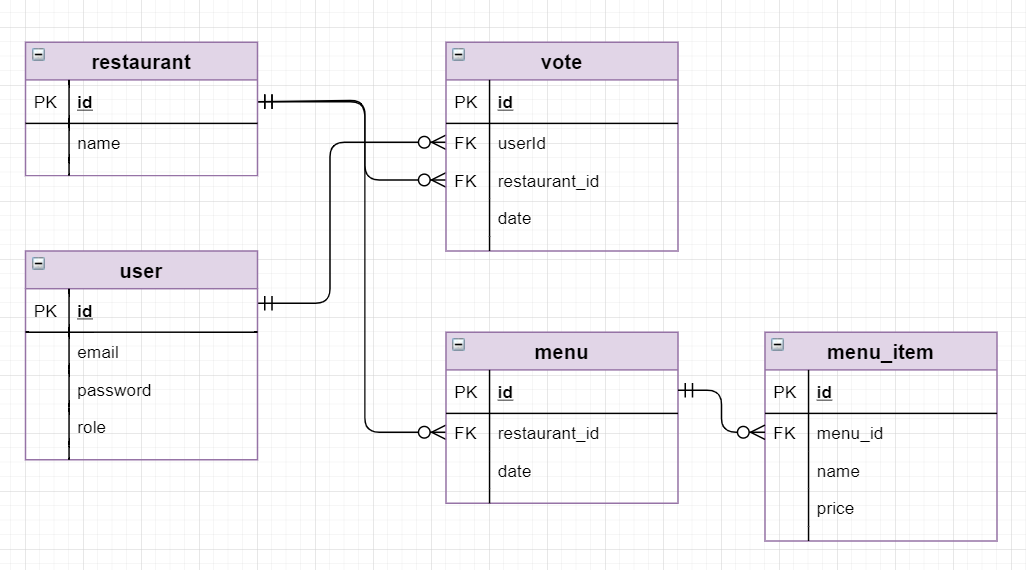
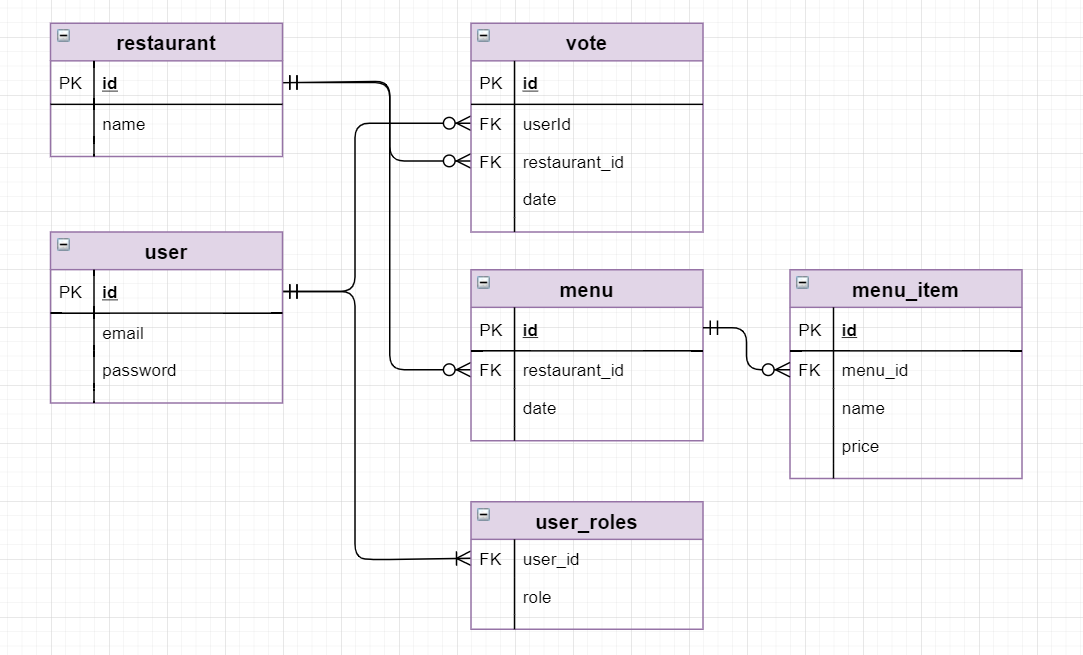
Fixed user registration, removed single role leftovers

diff --git a/src/main/java/ru/voidelectrics/restaurantvoter/service/UserService.java b/src/main/java/ru/voidelectrics/restaurantvoter/service/UserService.java
@@ -1,7 +1,5 @@
 package ru.voidelectrics.restaurantvoter.service;
 
-import org.springframework.context.annotation.Scope;
-import org.springframework.context.annotation.ScopedProxyMode;
 import org.springframework.security.core.userdetails.UserDetailsService;
 import org.springframework.security.core.userdetails.UsernameNotFoundException;
 import org.springframework.stereotype.Service;
@@ -17,7 +15,6 @@ import java.util.List;
 import static ru.voidelectrics.restaurantvoter.util.ValidationUtil.checkNotFoundWithId;
 
 @Service("userService")
-@Scope(proxyMode = ScopedProxyMode.TARGET_CLASS)
 public class UserService implements UserDetailsService {
     private final UserRepository repository;
 
@@ -48,7 +45,8 @@ public class UserService implements UserDetailsService {
     }
 
     public User create(UserTo userTo) {
-        return repository.save(UserUtil.createNewFromTo(userTo));
+        User user = UserUtil.createNewFromTo(userTo);
+        return repository.save(user);
     }
 
     public void update(UserTo userTo, long id) {
